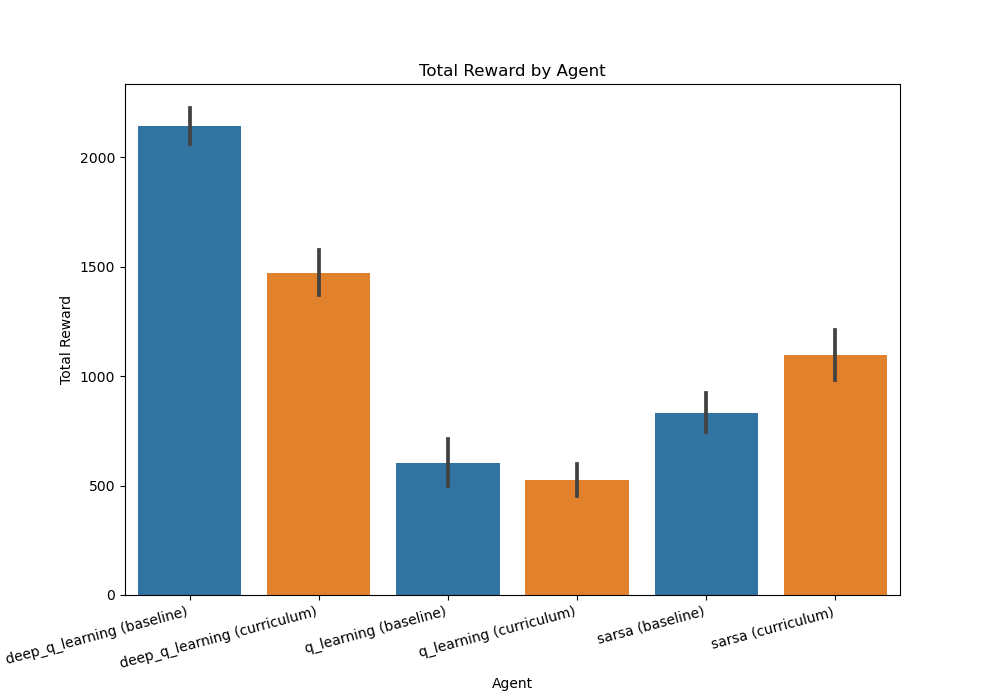
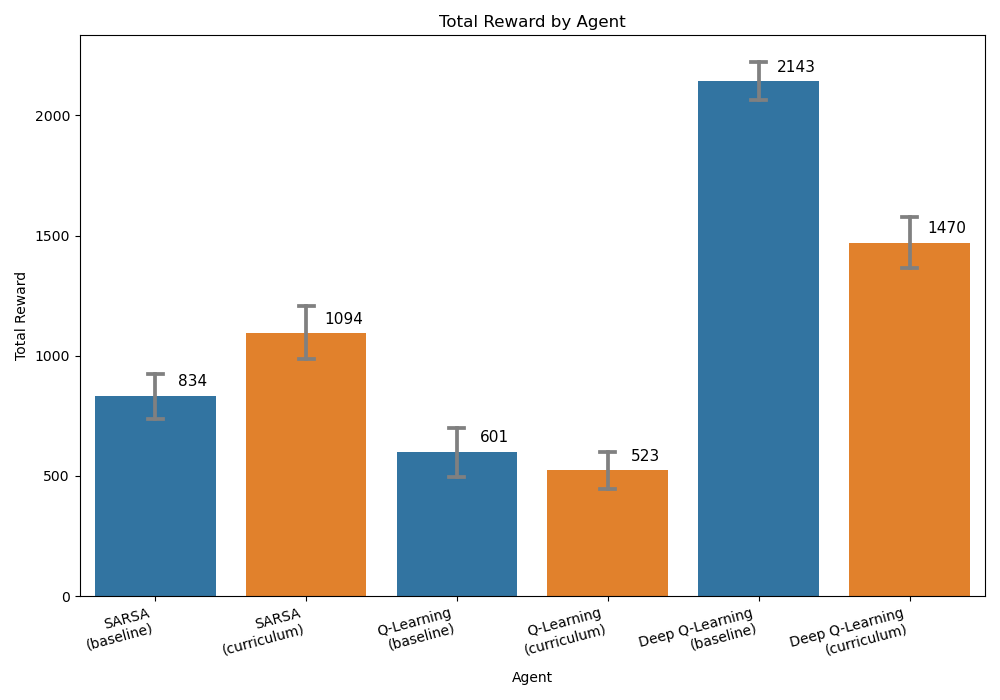
Cleand up visual display of levels, level maps, and data visualizations.

diff --git a/source/6_analyze_results.py b/source/6_analyze_results.py
@@ -7,7 +7,21 @@ warnings.simplefilter(action='ignore', category=FutureWarning)
 file_path = "../data/results/results.csv"
 results = pd.read_csv(file_path)
 
-results["treatment_name"] = results.apply(lambda row: f"{row['agent_name']} ({'curriculum' if row['curriculum'] else 'baseline'})", axis=1)
+# Reorder the agents
+# TODO: Need to add approximate_q_learning to the list
+results["agent_name"] = results["agent_name"].astype("category")
+results["agent_name"] = results["agent_name"].cat.reorder_categories(
+    ["sarsa", "q_learning", "deep_q_learning"])
+
+# Rename the agents
+agent_name_map ={
+    "sarsa": "SARSA",
+    "q_learning": "Q-Learning",
+    "approximate_q_learning": "Approximate Q-Learning",
+    "deep_q_learning": "Deep Q-Learning"}
+results["agent_name"] = results["agent_name"].map(agent_name_map)
+
+results["treatment_name"] = results.apply(lambda row: f"{row['agent_name']}\n({'curriculum' if row['curriculum'] else 'baseline'})", axis=1)
 
 # NOTE: You can change the filters to analyze different results
 # results = results[results["agent_name"] == "deep_q_learning"]
@@ -18,21 +32,40 @@ results = results.sort_values(by=["agent_name", "curriculum"])
 # NOTE: Cast curriculum to a string, so it can be used to set the hue
 results["curriculum"] = results["curriculum"].astype(int)
 
+
 # Plot total the total reward per episode by agent
 # Set the color to blue for the baseline and orange for the curriculum
 blue = sns.color_palette("tab10")[0]
 orange = sns.color_palette("tab10")[1]
 
+# Plot the total reward by agent
 plt.figure(figsize=(10, 7))
-sns.barplot(
+ax = sns.barplot(
     x="treatment_name",
     y="total_reward",
     palette=[blue, orange],
-    data=results)
+    data=results,
+    capsize=0.1)
 plt.title("Total Reward by Agent")
 plt.xlabel("Agent")
 plt.ylabel("Total Reward")
 plt.xticks(rotation=15, ha="right")
 plt.subplots_adjust(bottom=0.15)
+# and add a label above each bar and slightly to the right
+for p in plt.gca().patches:
+    plt.gca().annotate(
+        f"{p.get_height():.0f}",
+        (p.get_x() + p.get_width() / 2 + 0.25, p.get_height()),
+        ha="center",
+        va="center",
+        fontsize=11,
+        color="black",
+        xytext=(0, 10),
+        textcoords="offset points")
+for line in ax.lines:
+    line.set_color("grey")
+    line.set_mfc("grey")
+    line.set_mec("grey")
+plt.tight_layout()
 plt.savefig(f"../data/plots/results/total_reward_by_agent.png")
 plt.show()

diff --git a/source/2_analyze_hyperparameters.py b/source/2_analyze_hyperparameters.py
@@ -47,6 +47,7 @@ for treatment in treatments:
     details = details.sort_values(by=["alpha", "gamma", "epsilon"])
 
     # Plot total reward by training step grouped by hyperparameter treatment
+    plot_file_name = f"{file_name.split('.')[0]}.png"
     plot_title = f"Hyperparameter Curves for {treatment_name}"
     plt.figure(figsize=(10, 7))
     sns.lineplot(
@@ -59,5 +60,5 @@ for treatment in treatments:
     plt.ylabel("Total Reward")
     plt.ylim(0, 500)
     plt.legend(title="Hyperparameters")
-    plt.savefig(f"../data/plots/hyperparameters/{file_name}.png")
+    plt.savefig(f"../data/plots/hyperparameters/{plot_file_name}")
     plt.show()

diff --git a/source/tiles/tile_factory.py b/source/tiles/tile_factory.py
@@ -23,9 +23,9 @@ class TileFactory:
         rows = map.split('\n')
         for row in rows:
             tiles_row = []
-            row = row.replace('|', '   ')
+            row = row.replace('|', '  ')
             for index, char in enumerate(row):
-                if index % 3 != 0:
+                if index % 2 != 0:
                     continue
                 tile_id = Tile.get_enum_from_symbol(char)
                 tiles_row.append(tile_id)

diff --git a/source/environments/environment_renderer.py b/source/environments/environment_renderer.py
@@ -51,7 +51,7 @@ def draw_screen(environment, total_reward):
                 tile_symbol = "m"
                 if environment._invincible_time > 0:
                     tile_color = "\033[38;5;33m"
-            tile_text = tile_color + tile_symbol + "  " + Style.RESET_ALL
+            tile_text = tile_color + tile_symbol + " " + Style.RESET_ALL
             data += tile_text
         data += "\n"
         lines += 1
